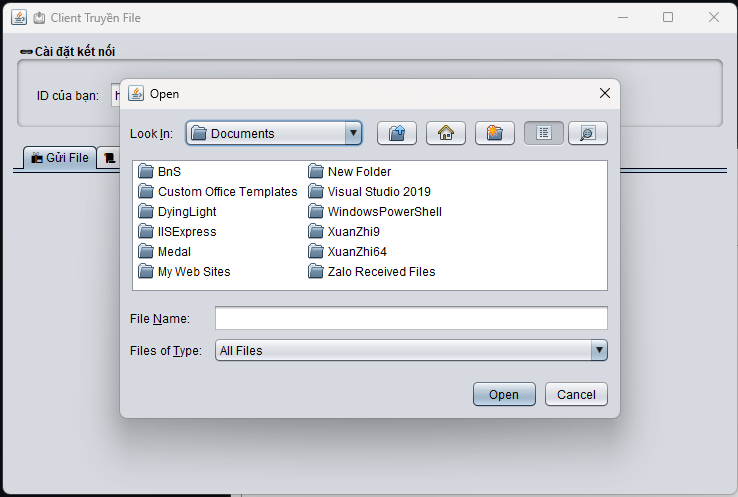
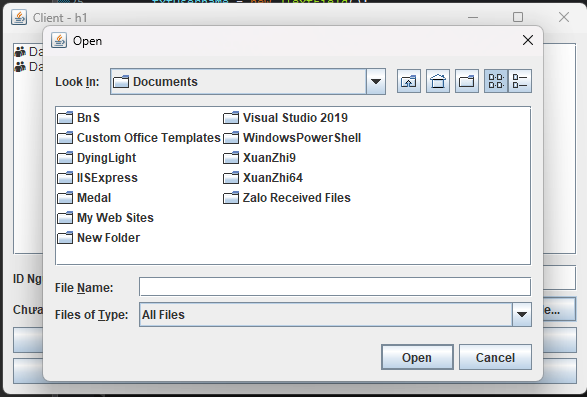
update

diff --git a/README.md b/README.md
@@ -74,40 +74,34 @@
 </p>
 <p align="center"><i>Hình ảnh 3</i></p>
 
-### Danh sách Client online 
-
-<p align="center">
-  <img src="docs/Online.png" alt="Online" width="600" height="600"/>
-</p>
-<p align="center"><i>Hình ảnh 4</i></p>
-
 ### Chọn file để gửi
 
 <p align="center">
-  <img src="docs/Choose.png" alt="Choose" width="600" height="600"/>
+  <img src="docs/Choose.png" alt="Choose" width="300" height="300"/>
+  <img src="docs/Choose2.png" alt="Choose" width="300" height="300"/>
 </p>
-<p align="center"><i>Hình ảnh 5</i></p>
+<p align="center"><i>Hình ảnh 4</i></p>
 
 ### Nhận file từ client khác 
 
 <p align="center">
   <img src="docs/Upload.png" alt="Upload" width="600" height="600"/>
 </p>
-<p align="center"><i>Hình ảnh 6</i></p>
+<p align="center"><i>Hình ảnh 5</i></p>
 
 ### Đồng ý nhận file 
 
 <p align="center">
   <img src="docs/Dongy.png" alt="Dongy" width="600" height="600"/>
 </p>
-<p align="center"><i>Hình ảnh 7</i></p>
+<p align="center"><i>Hình ảnh 6</i></p>
 
 ### Từ chối nhận file 
 
 <p align="center">
   <img src="docs/Tuchoi.png" alt="Tuchoi" width="600" height="600"/>
 </p>
-<p align="center"><i>Hình ảnh 8</i></p>
+<p align="center"><i>Hình ảnh 7</i></p>
 
 ---
 
